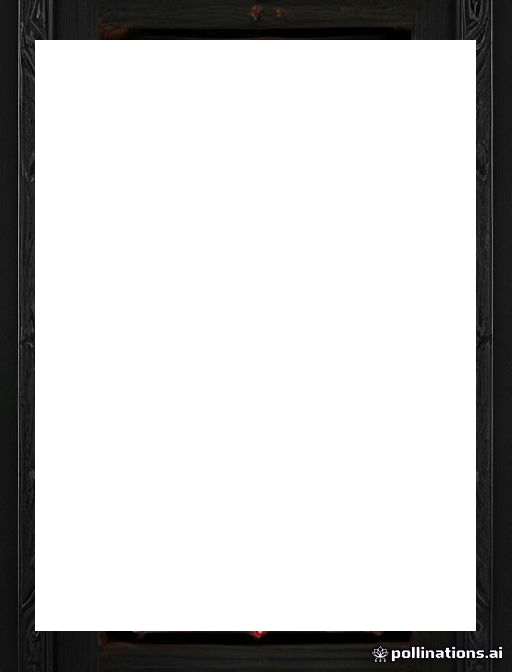
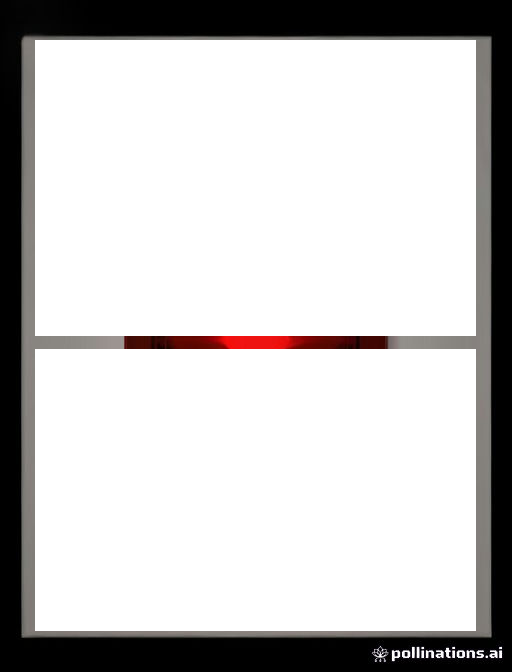
卡框重做：修正提示词+精确镂空卡图区/描述区，边框正确环绕内容

Changed region(s): [[0.0, 0.0, 1.0, 1.0]]

diff --git a/art_assets/process_frames.py b/art_assets/process_frames.py
@@ -1,15 +1,31 @@
 """
-处理卡框图片：将中间区域设为透明，只保留边框和宝石装饰。
-处理后的卡框可以作为最上层渲染，边框和宝石可见，中间透明不遮挡卡图和文字。
+处理卡框图片：
+1. 用 PIL 重新保存为真正 PNG 格式（Pollinations.ai 返回 JPEG）
+2. 精确镂空卡图区（上半部分）和描述区（下半部分），只保留外圈边框和中间分隔线
+
+卡牌布局（512×672，比例 1:1.3125）：
+- 外圈边框：约 6-8% 宽
+- 卡图区：y = 6% ~ 50%, x = 7% ~ 93%  → 透明
+- 中间分隔线：y = 50% ~ 52%  → 保留
+- 描述区：y = 52% ~ 94%, x = 7% ~ 93%  → 透明
+- 底部稀有度色带：y = 94% ~ 98%  → 保留
 """
-from PIL import Image, ImageDraw
+from PIL import Image
 import os
 
 FRAME_DIR = os.path.join(os.path.dirname(__file__), "frames")
 
 # 边框保留宽度（百分比）
-BORDER_W_PCT = 0.07  # 左右边框保留 7%
-BORDER_H_PCT = 0.06  # 上下边框保留 6%
+BORDER_W_PCT = 0.07   # 左右边框保留 7%
+
+# 卡图区（上半部分中间）→ 透明
+ART_TOP_PCT = 0.06
+ART_BOT_PCT = 0.50
+
+# 描述区（下半部分中间）→ 透明
+DESC_TOP_PCT = 0.52
+DESC_BOT_PCT = 0.94
+
 
 def process_frame(name):
     path = os.path.join(FRAME_DIR, name)
@@ -17,22 +33,31 @@ def process_frame(name):
     w, h = img.size
     pixels = img.load()
 
-    # 中间透明区域的边界
     inner_left = int(w * BORDER_W_PCT)
     inner_right = int(w * (1 - BORDER_W_PCT))
-    inner_top = int(h * BORDER_H_PCT)
-    inner_bottom = int(h * (1 - BORDER_H_PCT))
 
-    # 将中间区域设为透明
-    for y in range(inner_top, inner_bottom):
+    # 卡图区透明
+    art_top = int(h * ART_TOP_PCT)
+    art_bot = int(h * ART_BOT_PCT)
+    for y in range(art_top, art_bot):
         for x in range(inner_left, inner_right):
             pixels[x, y] = (0, 0, 0, 0)
 
-    # 保存
+    # 描述区透明
+    desc_top = int(h * DESC_TOP_PCT)
+    desc_bot = int(h * DESC_BOT_PCT)
+    for y in range(desc_top, desc_bot):
+        for x in range(inner_left, inner_right):
+            pixels[x, y] = (0, 0, 0, 0)
+
     img.save(path, "PNG")
-    print(f"处理完成: {name} ({w}x{h}), 透明区域: ({inner_left},{inner_top})-({inner_right},{inner_bottom})")
+    print(f"处理完成: {name} ({w}x{h})")
+    print(f"  卡图区透明: ({inner_left},{art_top})-({inner_right},{art_bot})")
+    print(f"  描述区透明: ({inner_left},{desc_top})-({inner_right},{desc_bot})")
+
 
 if __name__ == "__main__":
-    for name in ["frame_basic.png", "frame_uncommon.png", "frame_rare.png", "frame_epic.png", "frame_unique.png"]:
+    for name in ["frame_basic.png", "frame_uncommon.png", "frame_rare.png",
+                 "frame_epic.png", "frame_unique.png"]:
         process_frame(name)
     print("全部处理完成！")

diff --git a/art_assets/generate_frames.py b/art_assets/generate_frames.py
@@ -12,14 +12,15 @@ FRAMES_DIR = os.path.join(BASE_DIR, "frames")
 os.makedirs(FRAMES_DIR, exist_ok=True)
 
 STYLE = (
-    "dark fantasy card game frame border template, "
-    "ornate metallic border with decorative corners and runes, "
-    "top half dark recessed area for card artwork, "
-    "bottom half darker stone tablet panel for text description, "
+    "dark fantasy card game frame border ONLY, "
+    "hollow empty center with nothing inside, "
+    "the entire middle area is pure solid black flat color with no details, "
+    "only the outer ornate metallic border frame is visible, "
+    "decorative corners and runes on the border, "
     "vertical portrait card layout, "
-    "silver and dark grey metal tones with subtle wear and battle damage, "
+    "silver and dark grey metal tones with subtle wear, "
     "high quality game UI design, symmetrical, "
-    "no text no watermark no letters no words"
+    "no text no watermark no letters no words no illustration no image inside"
 )
 
 FRAMES = {
